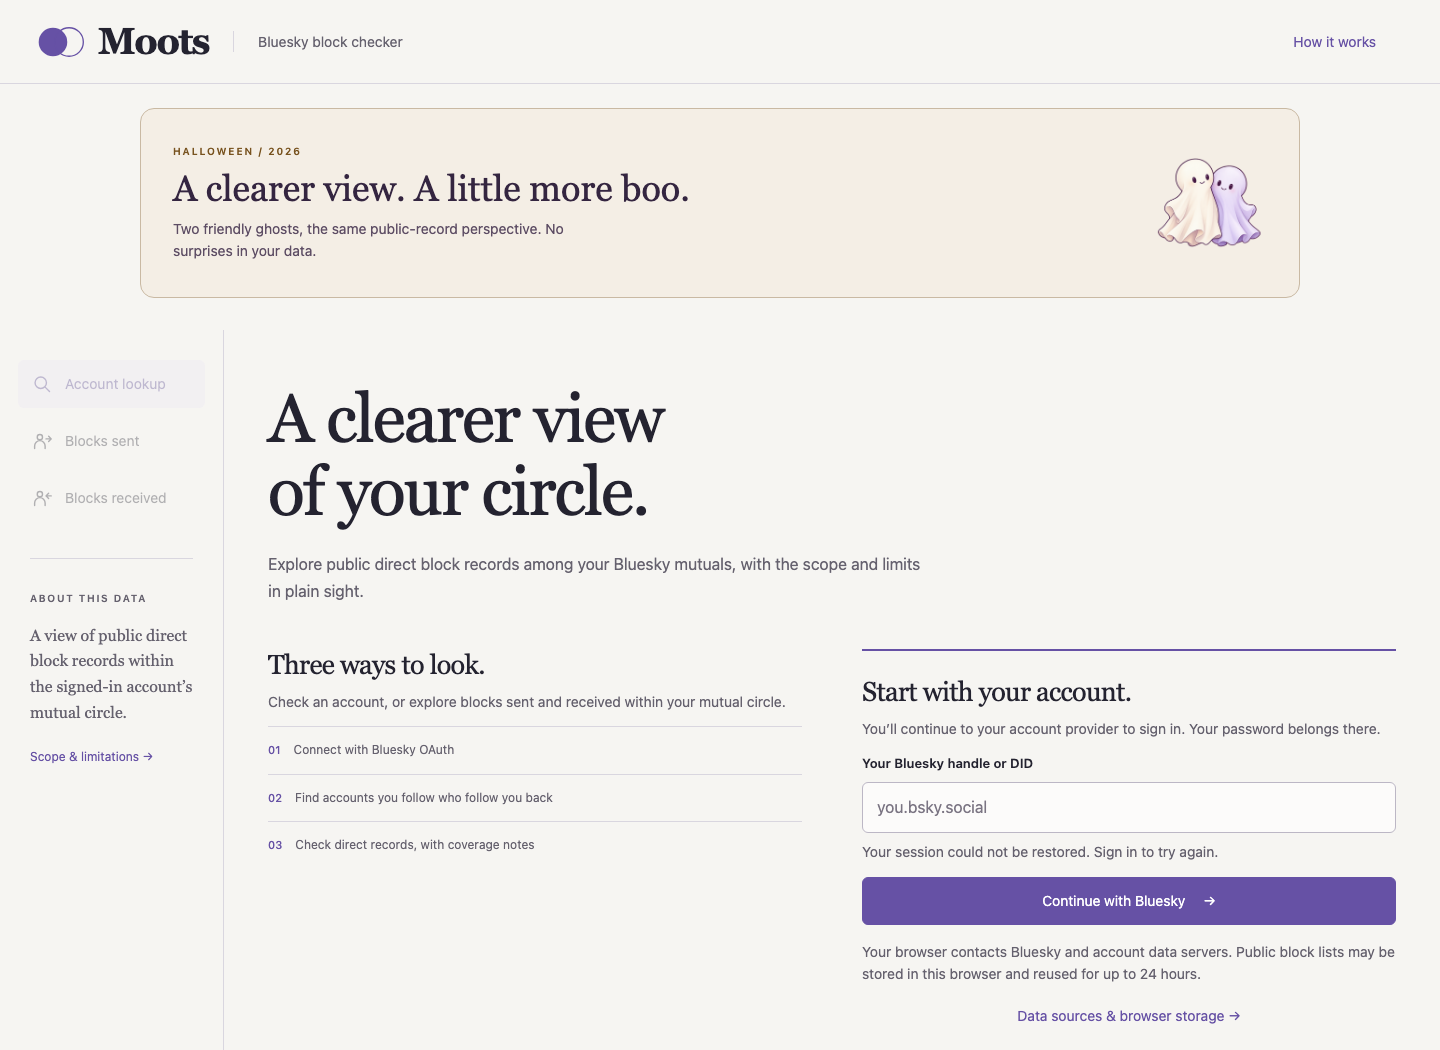
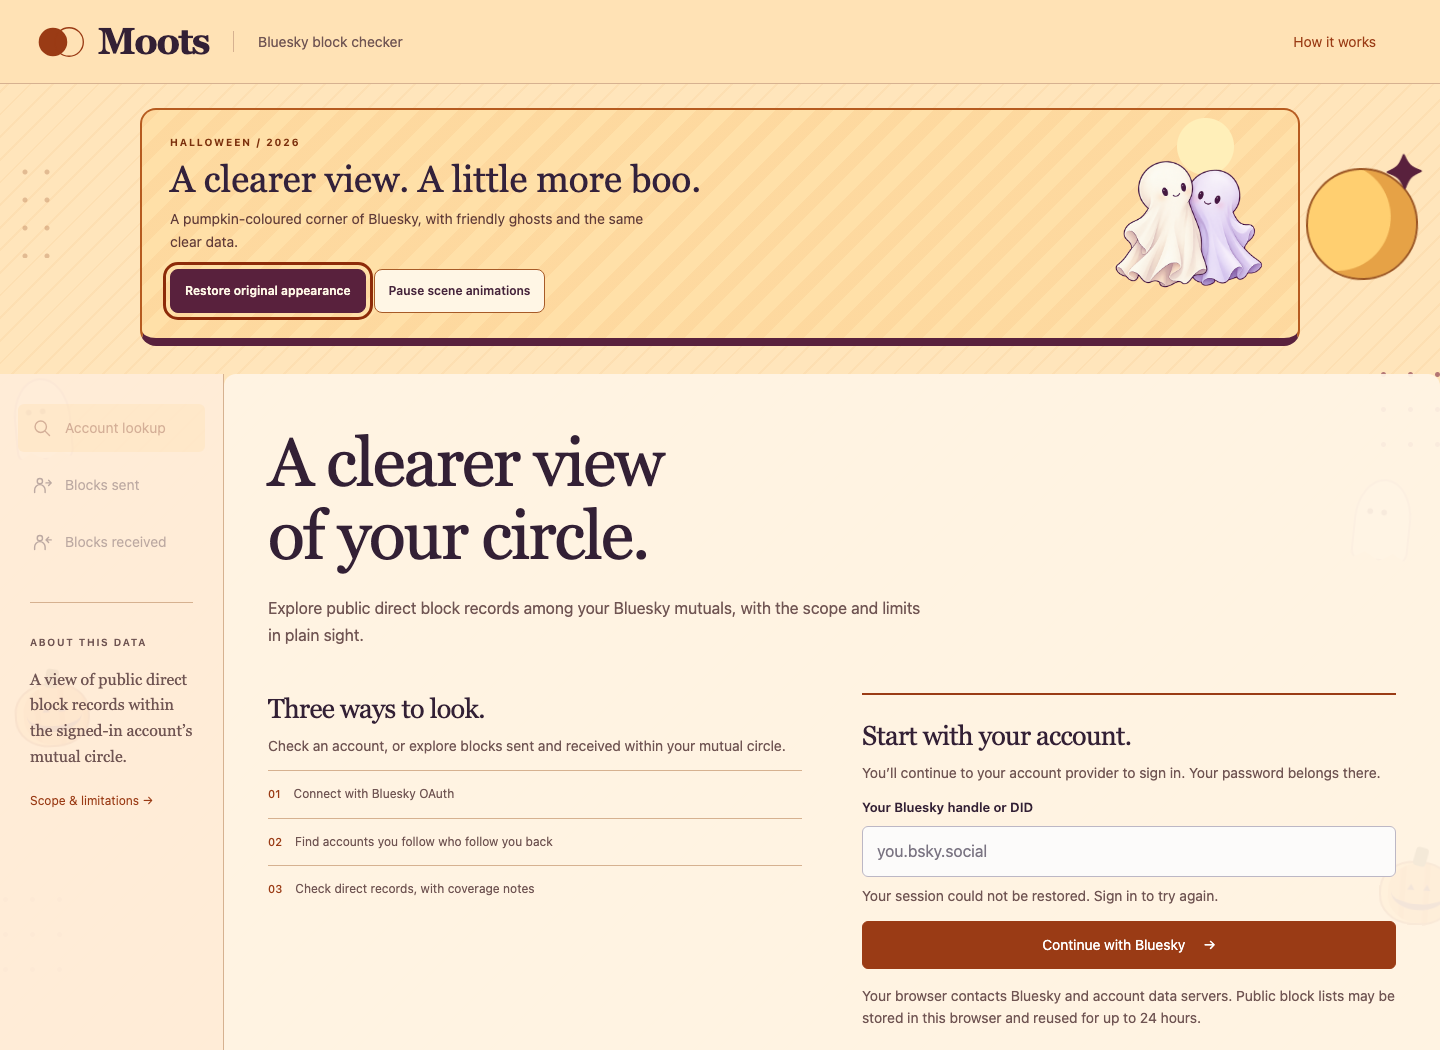
feat: add orange Halloween atmosphere and accessible motion controls

diff --git a/src/seasonal.css b/src/seasonal.css
@@ -1,19 +1,28 @@
-.seasonal-controls{display:flex;flex-wrap:wrap;align-items:center;justify-content:center;gap:8px 16px;padding:20px 16px;font:13px/1.5 system-ui,sans-serif;color:inherit;border-top:1px solid #8c809844}
-.seasonal-controls button{font:inherit;min-height:44px;padding:10px 14px;color:inherit;background:transparent;border:1px solid #8c809866;border-radius:8px;cursor:pointer}
-.seasonal-controls button[aria-pressed="true"]{background:#533365;color:#fff;border-color:#533365}
-.seasonal-controls button:focus-visible{outline:3px solid #9b6423;outline-offset:3px}
-.seasonal-status{font-size:12px}.seasonal-scene[hidden]{display:none!important}
-.seasonal-scene{box-sizing:border-box;display:flex;align-items:center;justify-content:space-between;gap:24px;margin:0 auto 32px;padding:24px 32px;max-width:1160px;border:1px solid #bca6c4;border-radius:14px;background:#f3edf6;color:#342540;overflow:hidden}
-.seasonal-scene img{display:block;width:112px;height:140px;object-fit:contain;flex:0 0 auto}
-.seasonal-scene p{margin:0}.seasonal-scene .seasonal-kicker{font:600 10px/1.5 system-ui,sans-serif;letter-spacing:.18em;color:#705276}
-.seasonal-scene .seasonal-title{font:clamp(24px,3vw,36px)/1.2 Georgia,serif;margin:8px 0}
-.seasonal-scene .seasonal-detail{font:14px/1.6 system-ui,sans-serif;max-width:48ch;color:#5d4d64}
-.seasonal-telly{background:#211d32;color:#faf2e5;border-color:#554363}.seasonal-telly .seasonal-kicker{color:#e6b584}.seasonal-telly .seasonal-detail{color:#e0d4e6}
-.seasonal-moots{background:#f4eee5;border-color:#c9b9a3}.seasonal-moots .seasonal-kicker{color:#78531f}
-html[data-season="halloween"]{--seasonal-accent:#78452a}
-html[data-season="halloween"] .seasonal-controls{border-top-color:#b98d5766}
-@media(max-width:600px){.seasonal-scene{gap:12px;padding:20px 16px;margin-bottom:24px;border-radius:10px}.seasonal-scene img{width:80px;height:112px}.seasonal-scene .seasonal-detail{font-size:12px}.seasonal-controls{justify-content:flex-start}.seasonal-status{flex-basis:100%}}
-@media print{.seasonal-scene,.seasonal-controls{display:none!important}}
-@media(prefers-reduced-motion:reduce){.seasonal-scene,.seasonal-controls{animation:none!important;transition:none!important}}
+/* Shared interaction layout. Halloween is one configurable seasonal pack. */
+.seasonal-stage{box-sizing:border-box;max-width:1160px;margin:0 auto 28px;position:relative;clear:both}.seasonal-stage:has(> [hidden]):not(:has(> :not([hidden]))){margin-bottom:0}.seasonal-stage.seasonal-awaiting{min-height:178px;margin-bottom:28px}
+.seasonal-invitation[hidden],.seasonal-scene[hidden],.seasonal-atmosphere[hidden]{display:none!important}
+.seasonal-invitation,.seasonal-scene{box-sizing:border-box;display:flex;align-items:center;gap:24px;border:1px solid #c7bdcf;border-radius:16px;padding:22px 28px;color:#33213b;background:#f6f1fa;font-family:system-ui,sans-serif;position:relative;isolation:isolate}
+.seasonal-invitation{animation:seasonal-arrive .65s cubic-bezier(.16,1,.3,1) both;min-height:178px}.seasonal-invite-copy,.seasonal-scene-copy{min-width:0;flex:1}.seasonal-stage p{margin:0}.seasonal-stage .seasonal-kicker{font:700 10px/1.5 system-ui,sans-serif;letter-spacing:.18em;color:#755276}.seasonal-stage .seasonal-title{font:clamp(24px,3vw,37px)/1.15 Georgia,serif;margin:8px 0;color:inherit}.seasonal-stage .seasonal-detail{font:14px/1.6 system-ui,sans-serif;max-width:54ch;color:#65556b}
+.seasonal-stage button,.seasonal-controls button{font:600 12px/1.5 system-ui,sans-serif;min-height:44px;padding:10px 14px;border:1px solid #9b809d;border-radius:8px;background:#fffaf2;color:#45243b;cursor:pointer;touch-action:manipulation}.seasonal-stage button:focus-visible,.seasonal-controls button:focus-visible{outline:3px solid #8d2b09;outline-offset:4px}.seasonal-stage .seasonal-character{background:transparent;border:0;padding:0 8px;display:grid;justify-items:center;align-self:center;flex:0 0 144px}.seasonal-character img{width:112px;height:136px;object-fit:contain;display:block;animation:seasonal-hover 4.8s ease-in-out infinite}.seasonal-character-caption{display:block;font-size:11px;margin-top:5px;text-decoration:underline;text-underline-offset:3px}.seasonal-stage .seasonal-dismiss{padding:0;min-width:44px;min-height:44px;align-self:flex-start;font:26px/1 system-ui,sans-serif;background:transparent;border-color:transparent}.seasonal-dismiss:hover{background:#e9deec}
+.seasonal-scene{justify-content:space-between;background:#ffe0a8;border:2px solid #b65b20;border-bottom:8px solid #59213d;overflow:hidden;min-height:220px}.seasonal-scene::before{content:'';position:absolute;inset:0;z-index:-1;background:radial-gradient(circle at 92% 16%,#ffefb9 0 28px,transparent 29px),repeating-linear-gradient(135deg,#e66b1610 0 13px,transparent 13px 28px);pointer-events:none}.seasonal-scene .seasonal-kicker{color:#7c310e}.seasonal-scene .seasonal-detail{color:#603b38}.seasonal-hero-art{flex:0 0 160px;align-self:center}.seasonal-hero-art img{display:block;object-fit:contain;width:160px;height:184px;animation:seasonal-hover 6s ease-in-out infinite}.seasonal-scene-actions{display:flex;gap:8px;flex-wrap:wrap;margin-top:16px}.seasonal-scene-actions button{background:#fff6e5;border-color:#a75b28}.seasonal-scene-actions button:first-child{background:#59213d;color:#fff8e7;border-color:#59213d}
+.seasonal-controls{display:flex;flex-wrap:wrap;align-items:center;justify-content:center;gap:8px 14px;padding:20px 16px;font:13px/1.5 system-ui,sans-serif;color:inherit;border-top:1px solid #8c809844}.seasonal-controls button{background:transparent;color:inherit;border-color:#8c809866}.seasonal-controls button[aria-pressed=true]{background:#59213d;color:#fff6e5;border-color:#59213d}.seasonal-controls button:disabled,.seasonal-stage button:disabled{cursor:default;opacity:.75}.seasonal-status{font-size:12px}
+/* Atmosphere stays behind all content and never captures input. Only transforms/opacity animate. */
+html[data-season=halloween] body{isolation:isolate;background-color:#ffe5bb;background-image:repeating-linear-gradient(135deg,#e28d3512 0 2px,transparent 2px 16px)}
+.seasonal-atmosphere{position:fixed;inset:0;z-index:-1;overflow:hidden;pointer-events:none;contain:strict}.seasonal-atmosphere>span{position:absolute;display:block}.seasonal-moon{width:112px;height:112px;right:1.5%;top:16%;border-radius:50%;background:#ffcf70;box-shadow:inset -25px -8px 0 #e6a246;border:2px solid #9b5624;animation:seasonal-hover 14s ease-in-out infinite}.seasonal-moon::after{content:'✦';color:#59213d;font:48px/1 Georgia,serif;position:absolute;right:-9px;top:-20px}
+.seasonal-moon-stars{left:1%;top:15%;width:50px;height:100px;background:radial-gradient(circle,#8e3e19 0 2px,transparent 3px) 0 0/22px 28px;opacity:.5;animation:seasonal-twinkle 8s ease-in-out infinite}
+.seasonal-pumpkin{width:75px;height:64px;border-radius:45%;background:repeating-linear-gradient(90deg,#f49735 0 18px,#e97b23 19px 24px);border:2px solid #a64e20;box-shadow:inset 7px 0 0 #ffc362;animation:seasonal-sway 11s ease-in-out infinite;transform-origin:bottom}.seasonal-pumpkin::before{content:'';position:absolute;width:13px;height:19px;background:#67542e;left:31px;top:-16px;transform:rotate(12deg);border-radius:4px}.seasonal-pumpkin::after{content:'▴ ▴';position:absolute;left:10px;right:6px;top:13px;text-align:center;font:20px/1 Georgia,serif;color:#59213d;border-bottom:6px solid #59213d;border-radius:0 0 50% 50%;padding-bottom:8px}.pumpkin-one{left:1.2%;top:65%}.pumpkin-two{right:-12px;top:82%;transform:scale(.8);animation-delay:-4s}
+.seasonal-wisp{width:57px;height:82px;border-radius:50% 50% 12% 12%;background:#fff7e6;border:2px solid #bd8d9a;clip-path:polygon(0 0,100% 0,100% 100%,75% 90%,50% 100%,25% 90%,0 100%);animation:seasonal-ghost 16s ease-in-out infinite}.seasonal-wisp::before{content:'• •';color:#59213d;position:absolute;left:9px;top:20px;font:22px/1 Georgia,serif;white-space:pre}.wisp-one{left:1%;top:36%;opacity:.7}.wisp-two{right:2%;top:48%;opacity:.65;animation-delay:-8s}
+.seasonal-sparkles{width:90px;height:110px;background:radial-gradient(circle,#8c3d52 0 2px,transparent 3px) 0 0/27px 35px;opacity:.4;animation:seasonal-twinkle 10s ease-in-out infinite}.sparkles-one{left:-8px;top:84%}.sparkles-two{right:-20px;top:34%;animation-delay:-5s}
+/* Readable orange colourways; original tokens return simply by removing data-season. */
+html[data-season=halloween]{--paper:#fff0d8;--ink:#332035;--muted:#705553;--violet:#9a3b15;--line:#d6b190;--light:#ffdfad;--canvas:#fff0d8;--pale:#ffdfad;--amber:#73310c;--amber-bg:#fff1d4;--taco-bg:#ffe5bb;--taco-fg:#332035;--taco-muted:#705553;--taco-accent:#9a3b15;--taco-accent-2:#7a2c12;--taco-accent-fill:#9a3b15;--taco-accent-fill-hover:#7a2c12;--taco-surface:#fff7e9;--taco-surface-2:#ffe0ac;--taco-border:#d6b190;--taco-callout:#fff0d8;--taco-callout-border:#d6b190}
+html[data-season=halloween] main{background:#fff4e5ed;border-radius:12px}html[data-season=halloween][data-seasonal-profile=andrew] main{background:#fff3dfed}html[data-season=halloween][data-seasonal-profile=moots] header{background:#ffe2b5}html[data-season=halloween][data-seasonal-profile=moots] aside{background:#ffedd9ed}html[data-season=halloween][data-seasonal-profile=moots] .brand svg{color:#9a3b15}html[data-season=halloween][data-seasonal-profile=moots] nav button[aria-current=page]{color:#7d3214}html[data-season=halloween] .seasonal-controls{background:#ffedcf;border-color:#bd854b;color:#45243b}
+html[data-season=halloween][data-theme=dark]{--taco-bg:#241726;--taco-fg:#fff1dc;--taco-muted:#e0bfa6;--taco-accent:#ffb767;--taco-accent-2:#ffd199;--taco-accent-fill:#9a3b15;--taco-surface:#352335;--taco-surface-2:#4a2d36;--taco-border:#7b5147;--taco-callout:#352335}html[data-season=halloween][data-theme=dark] main{background:#291a2aef}html[data-season=halloween][data-theme=dark] body{background-color:#241726}
+html[data-season-motion=paused] :is(.seasonal-invitation,.seasonal-character img,.seasonal-hero-art img,.seasonal-atmosphere>span){animation-play-state:paused!important}
+@keyframes seasonal-arrive{from{opacity:0;transform:translateY(-12px) translateX(28px)}to{opacity:1;transform:translate(0)}}@keyframes seasonal-hover{0%,100%{transform:translateY(0) rotate(-2deg)}50%{transform:translateY(-9px) rotate(2deg)}}@keyframes seasonal-sway{0%,100%{transform:rotate(-4deg)}50%{transform:rotate(5deg)}}@keyframes seasonal-ghost{0%,100%{transform:translateY(0) rotate(-5deg)}50%{transform:translateY(-25px) rotate(6deg)}}@keyframes seasonal-twinkle{0%,100%{opacity:.25}50%{opacity:.65}}
+@media(max-width:600px){.seasonal-stage{margin-bottom:20px}.seasonal-stage.seasonal-awaiting{min-height:180px}.seasonal-invitation,.seasonal-scene{gap:10px;padding:18px 14px;border-radius:12px}.seasonal-stage .seasonal-title{font-size:26px}.seasonal-stage .seasonal-detail{font-size:12px}.seasonal-stage .seasonal-character{flex-basis:88px;padding:0}.seasonal-character img{width:82px;height:110px}.seasonal-character-caption{font-size:10px;max-width:88px}.seasonal-invitation .seasonal-dismiss{min-width:44px;flex:0 0 44px;margin-right:-7px}.seasonal-invite-copy .seasonal-kicker{font-size:9px;letter-spacing:.08em}.seasonal-invite-copy .seasonal-title{font-size:22px}.seasonal-hero-art{flex:0 0 84px}.seasonal-hero-art img{width:84px;height:120px}.seasonal-scene-actions{gap:6px}.seasonal-scene-actions button{font-size:11px;padding:9px 10px}.seasonal-controls{justify-content:flex-start}.seasonal-status{flex-basis:100%}.seasonal-moon{right:-35px;width:85px;height:85px}.pumpkin-one{left:-34px}.pumpkin-two{right:-28px}.wisp-one{left:-25px}.wisp-two{right:-25px}}
+@media(prefers-reduced-motion:reduce){.seasonal-invitation,.seasonal-character img,.seasonal-hero-art img,.seasonal-atmosphere>span{animation:none!important;transition:none!important}}
+@media print{.seasonal-stage,.seasonal-atmosphere,.seasonal-controls{display:none!important}html[data-season] body,html[data-season] main{background:white!important;color:#242330!important}}
 
-.seasonal-moots{margin-top:24px;max-width:min(1160px,calc(100% - 40px))}
+[data-seasonal-profile=moots] .seasonal-stage{margin-top:24px;max-width:min(1160px,calc(100% - 40px))}
+
+html[data-season-motion="paused"] .seasonal-invitation{animation:none!important}

diff --git a/docs/seasonal-appearance.md b/docs/seasonal-appearance.md
@@ -1,23 +1,39 @@
-# Seasonal appearance
+# Seasonal appearance · shared contract v2
 
-Halloween 2026 is an optional, local appearance. It starts off; the accessible toggle saves `halloween` or `off` in `seasonal-theme:v1` on this origin. Reset deletes that preference and returns to off. Storage denial gracefully leaves a session-only choice; storage events synchronize other tabs. No calendar activation, analytics, network service, floating trigger, or motion is used. Print hides both the costume panel and controls.
+A fresh visitor sees the costumed character arrive after about one second in a dedicated area above the content. The character gently hovers; keyboard/touch activation turns the page into a pumpkin-orange Halloween scene with moons, jack-o’-lanterns, friendly wisps and twinkling dots. The 44px close button dismisses the invitation for this tab and season. Nothing transforms until the visitor chooses it.
 
-The controller owns preference and rendering, the stylesheet owns the self-contained decoration, and `mascot.png` owns the costume artwork. The three sites use the same behavior contract with distinct copy and illustration. Future seasons should extend an explicit allowlist and profile/assets after review, rather than adding speculative packs. Existing experiments, content palettes, navigation and footer branding are deliberately preserved.
+The active scene provides **Restore original appearance** and **Pause scene animations**. Footer controls also provide on/off, motion pause and reset. Explicit saved on/off choices are respected; reset returns to standard appearance and makes the invitation available again. No control is covered by a fixed character overlay.
 
-Review: enable using “Halloween appearance” near the footer; turn it off using the same toggle, or choose “Reset appearance”. No production activation or publishing is part of this change.
+## Configuration and the next season
 
-## Costume artwork
+`public/seasonal/season-config.js` defines `window.SchwegSeasonalConfig` with `schemaVersion: 2`, `invitationDelayMs`, a site `profile` (`id`, `character`, `placement`), and a `seasons` array. Entries contain `id`, `theme`, `label`, `enabled`, optional `window.from` / exclusive `window.until` local dates, `asset`, `kicker`, `title`, `detail` and `prompt`.
 
-Built-in image generation produced the transparent PNG; alpha was verified, transparent margins trimmed, and the image resized to at most 480 × 600 for delivery. Original source: `overlapping-circle header identity in index.html`.
+The controller selects the first enabled entry whose date window contains today. Halloween 2026 currently runs October 1 through October 31. A reviewed Christmas entry can start **November 1** using the same controller, preference contract and UI. Add its approved PNG, copy and CSS pack before enabling it; this change does not invent Christmas artwork or silently reuse Halloween costumes. If no entry applies, the controller mounts no seasonal UI.
 
-Prompt specification: Two warm ivory and lavender sheet ghosts echoing the paired circle identity. Polished restrained cartoon cutout, full body, genuine transparent PNG, no background, text, or watermark. Preserve existing character identity and illustration style.
+## Preferences and events
 
-Existing Telly/Andrew image placements change to the costume while enabled; original sources, responsive attributes and alt text return when switched off.
+- `localStorage['seasonal-theme:v1']`: active theme name (currently `halloween`) or `off`. The existing key is preserved. Unknown past-season values allow the current season’s invitation; explicit `off` suppresses invitations until reset.
+- `localStorage['seasonal-motion:v1']`: `paused` or `auto`. Device reduced motion always wins.
+- `sessionStorage['seasonal-prompt:v1:<season-id>']`: `dismissed`, scoped to this tab and season.
+- Root attributes: `data-season`, `data-season-id`, `data-season-motion` and `data-seasonal-profile`.
+- `window` event `schweg:seasonal-change`: detail `{schemaVersion:2, seasonId, theme, active, motion, source}`.
 
-## Rendered review evidence
+Storage failures leave usable in-page choices. Storage events synchronize appearance and motion between tabs. This contract is shared with the separate Trove implementation; Facet’s bat costume remains owned there.
 
-- [Desktop, 1440 × 1050](screenshots/seasonal/halloween-desktop.png)
-- [Mobile, 390 × 844](screenshots/seasonal/halloween-mobile.png)
-- [Interaction results](screenshots/seasonal/browser-results.json)
+## Motion, accessibility and restoration
 
-Headless Chromium exercised default off, toggle on, reload persistence, saved off, reset, print hiding, empty decorative alt text and horizontal overflow. All routes using the shared résumé script were also visited with the seasonal panel enabled. Browser plugin was not available; the installed Playwright runtime and Chromium were used.
+One cancellable `setTimeout` schedules the invitation. There is no polling, canvas, animation loop, external service, filter/blur animation or pointer interception. Eight decorative spans plus the PNG use compositor-friendly transform/opacity animations. Pausing freezes seasonal motion; reduced motion renders a static invitation, static character and static background. All decoration has empty alt text or is hidden from accessibility APIs. Print hides seasonal controls and decoration.
+
+The character lives in normal flow, with space reserved during the short arrival delay. Main content keeps readable cream/plum surfaces. Orange tokens apply only while `data-season=halloween` is present. Removing that attribute restores original tokens; existing Telly/Andrew placements restore their exact original src/srcset/sizes/alt attributes. Navigation/footer logos, contact encoding, support links and experiment behavior remain intact.
+
+## Artwork provenance
+
+The existing costume PNG is unchanged from the previous draft. Reference: `overlapping-circle header identity in index.html`. Andrew’s wizard and Telly’s vampire host were produced by built-in imagegen editing their respective transparent character references, preserving identity and illustration style. Moots’ paired sheet ghosts were newly generated to echo its overlapping-circle brand. Alpha was verified; transparent margins were trimmed and delivery sizes limited to 480 × 600. No mascot SVG substitute was used.
+
+## Genuine rendered previews
+
+- [Invitation desktop](screenshots/seasonal/invitation-desktop.png) · [Invitation mobile](screenshots/seasonal/invitation-mobile.png)
+- [Active Halloween desktop](screenshots/seasonal/halloween-desktop.png) · [Active Halloween mobile](screenshots/seasonal/halloween-mobile.png)
+- [Browser interaction results](screenshots/seasonal/browser-results.json)
+
+Desktop is 1440 × 1050; mobile is 390 × 844. The interaction harness also checks 320px width, keyboard activation, delayed arrival, dismissal, saved off, restoration, pause persistence, reduced motion, decorative alt text and print hiding. Browser plugin was unavailable; installed Playwright/Chromium was used. Blog previews render captured current WordPress HTML with local seasonal assets and exclude remote WordPress scripts. PHP tests cover integration; this is not a complete local WordPress installation.
